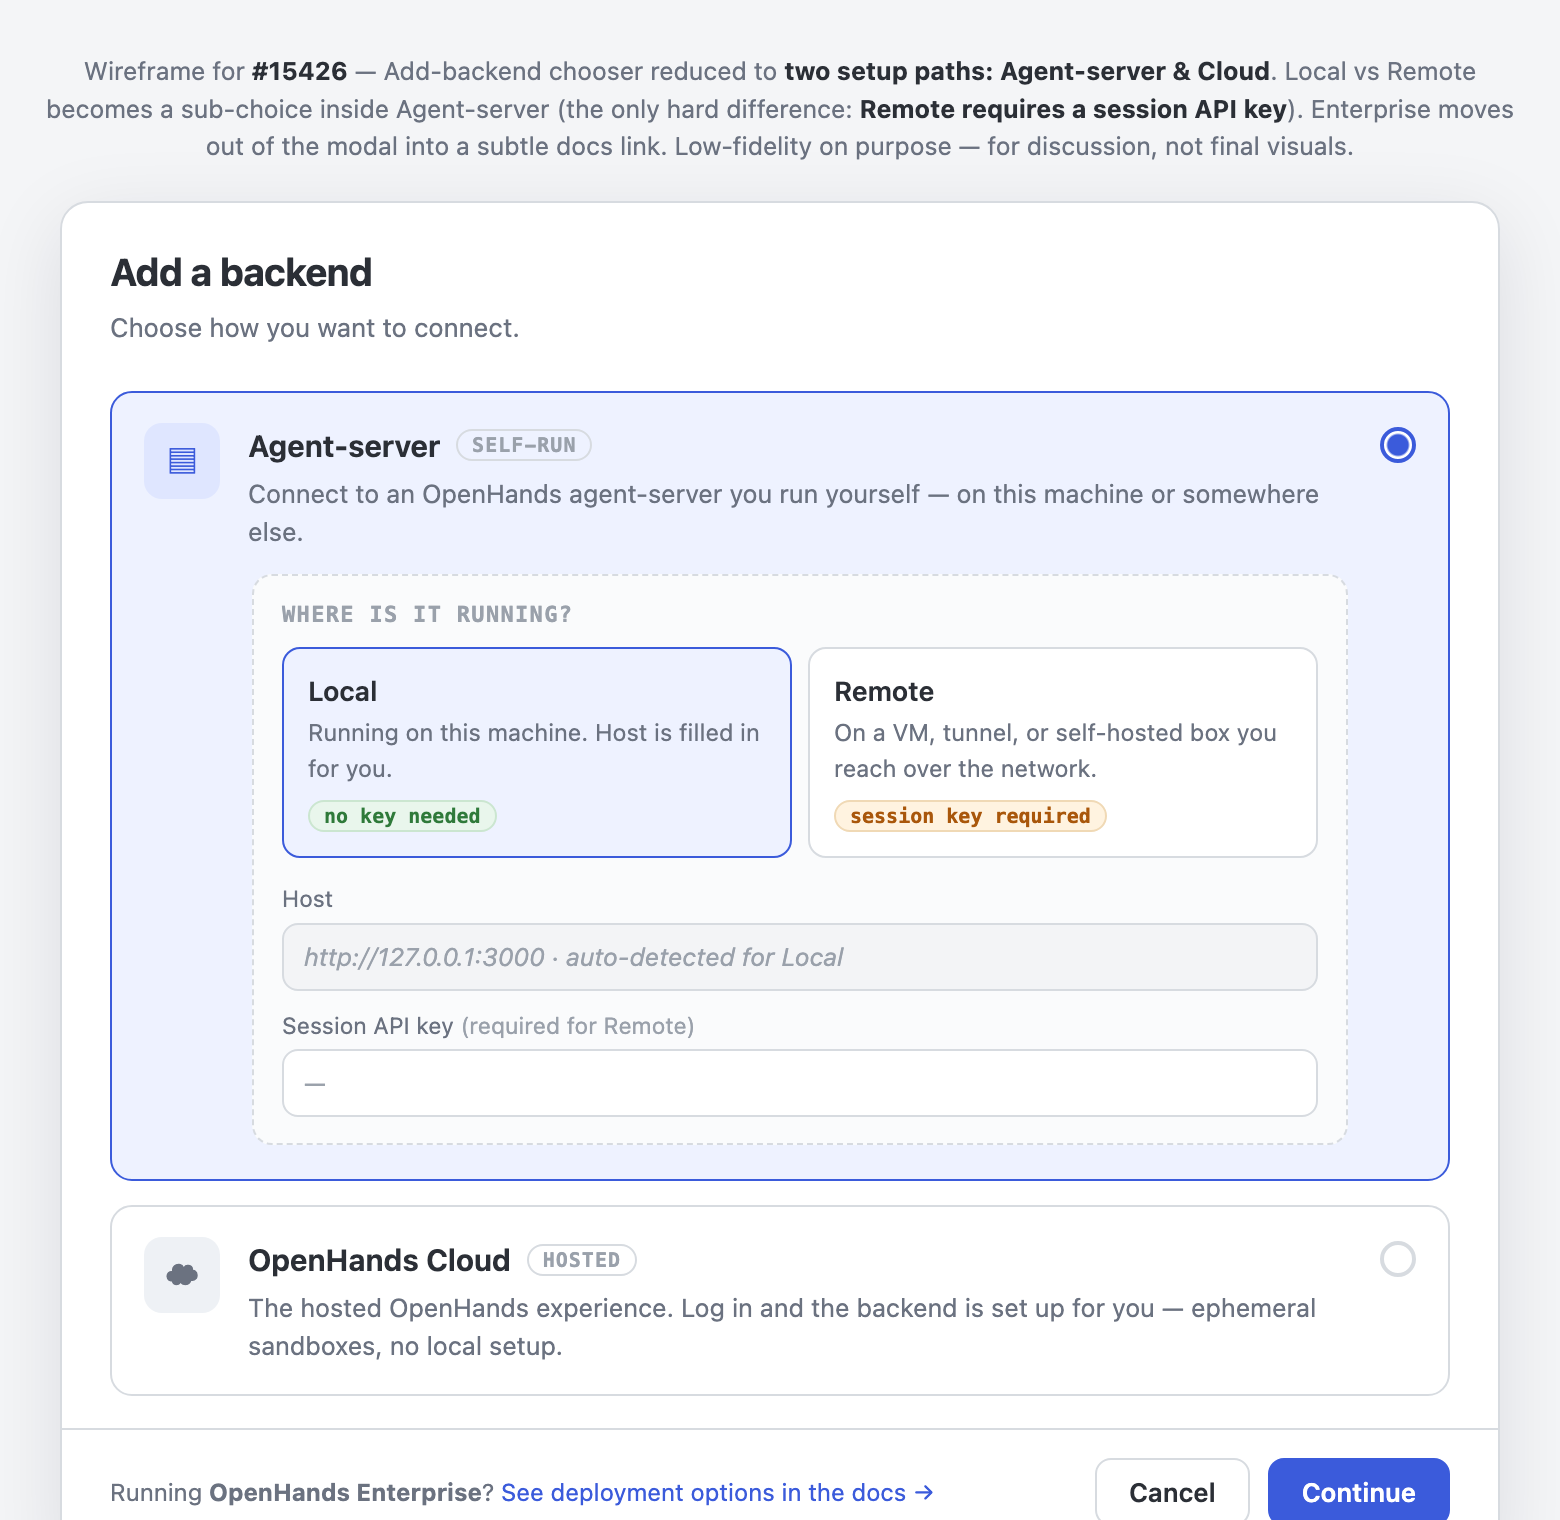
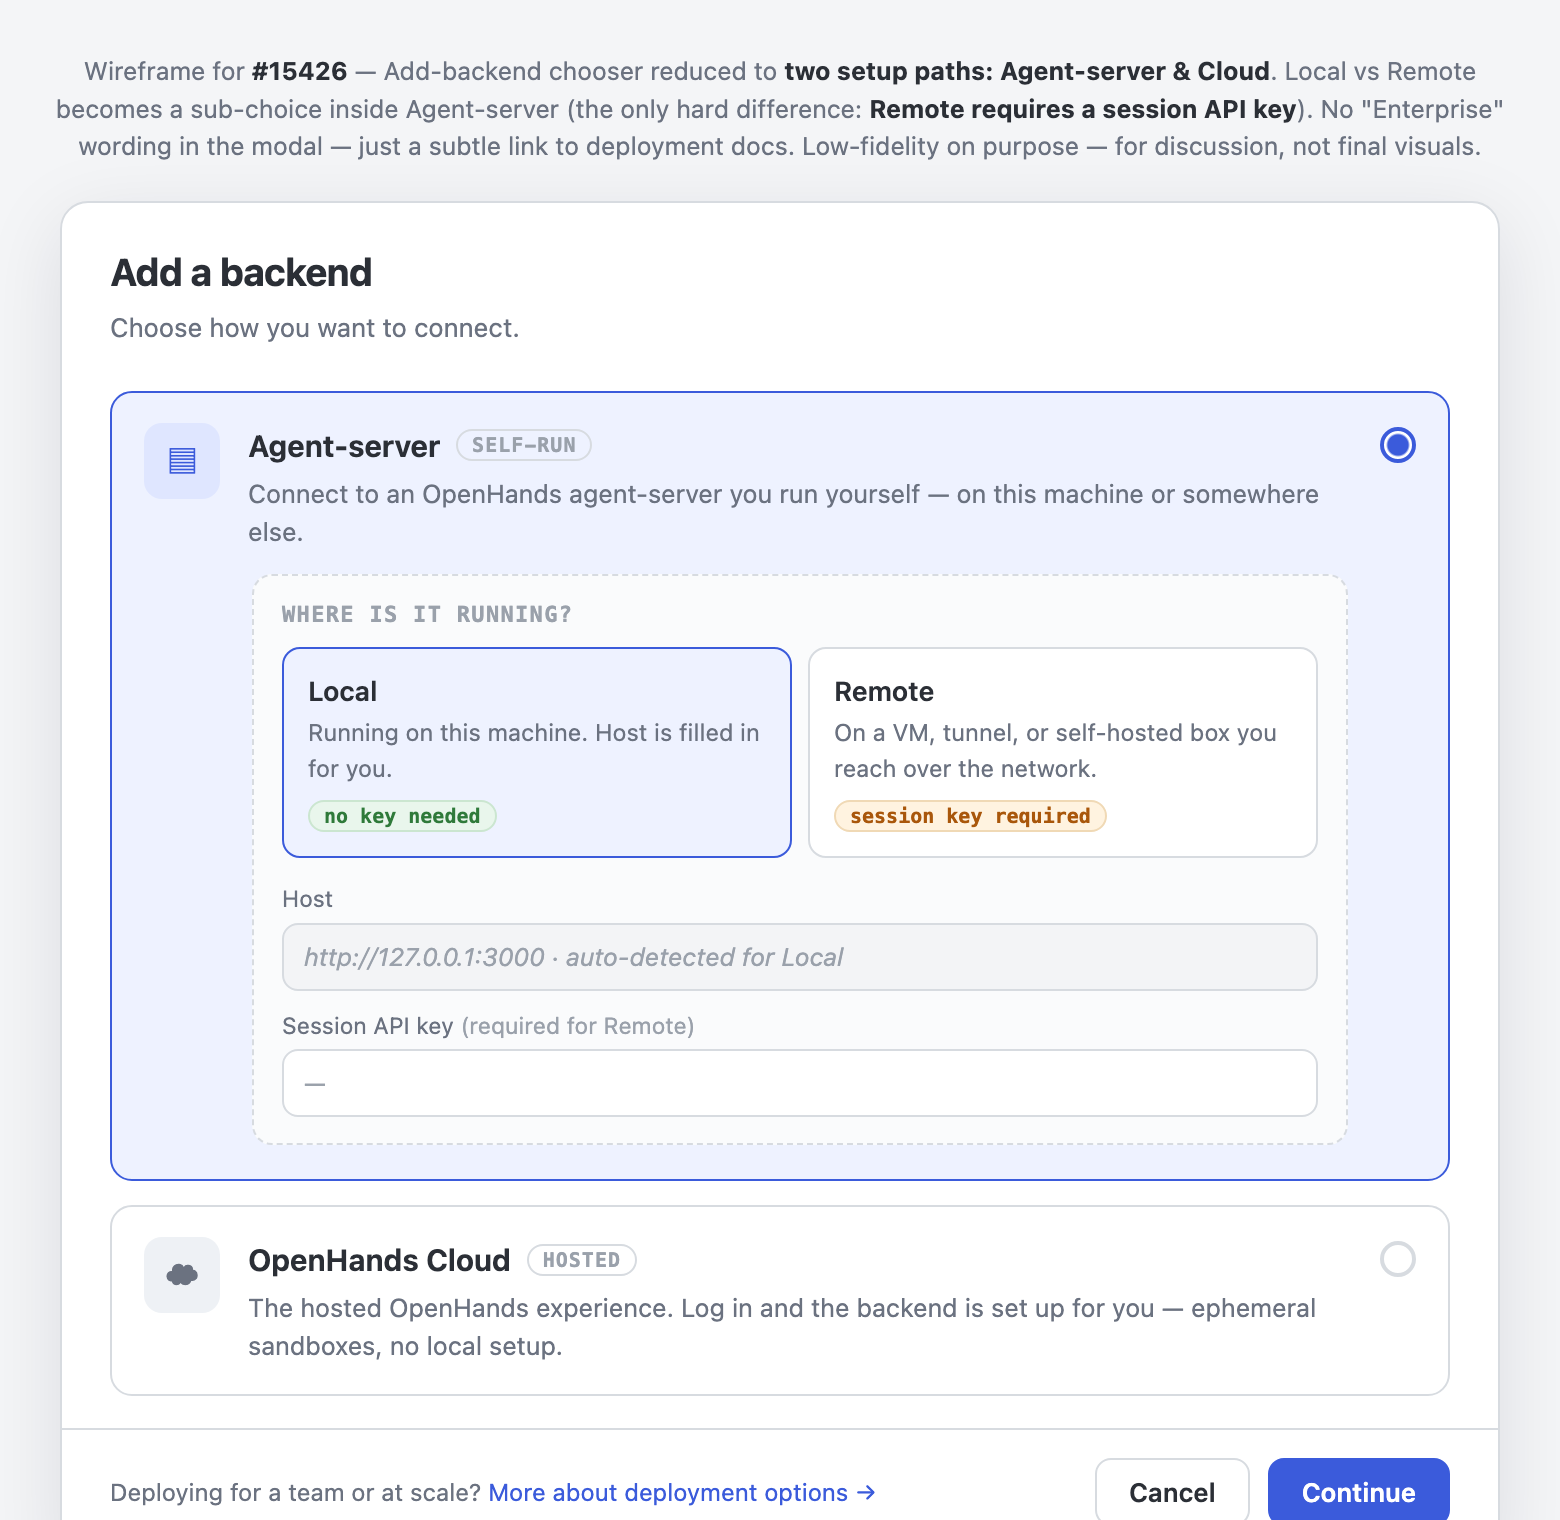
wire: drop 'Enterprise' wording -> neutral deployment-docs link (OpenHands#15426)

Changed region(s): [[0.0308, 0.0618, 0.9538, 0.1237], [0.0615, 0.9586, 0.5846, 0.9895]]

diff --git a/wire/backend-selector.html b/wire/backend-selector.html
@@ -67,7 +67,7 @@
 </style>
 </head>
 <body>
-  <p class="note">Wireframe for <b>#15426</b> — Add-backend chooser reduced to <b>two setup paths: Agent-server &amp; Cloud</b>. Local vs Remote becomes a sub-choice inside Agent-server (the only hard difference: <b>Remote requires a session API key</b>). Enterprise moves out of the modal into a subtle docs link. Low-fidelity on purpose — for discussion, not final visuals.</p>
+  <p class="note">Wireframe for <b>#15426</b> — Add-backend chooser reduced to <b>two setup paths: Agent-server &amp; Cloud</b>. Local vs Remote becomes a sub-choice inside Agent-server (the only hard difference: <b>Remote requires a session API key</b>). No "Enterprise" wording in the modal — just a subtle link to deployment docs. Low-fidelity on purpose — for discussion, not final visuals.</p>
 
   <div class="modal">
     <div class="m-head">
@@ -125,7 +125,7 @@
     </div>
 
     <div class="m-foot">
-      <div class="ent">Running <b>OpenHands Enterprise</b>? <a href="#">See deployment options in the docs →</a></div>
+      <div class="ent">Deploying for a team or at scale? <a href="#">More about deployment options →</a></div>
       <div class="btns">
         <div class="btn">Cancel</div>
         <div class="btn pri">Continue</div>
@@ -133,6 +133,6 @@
     </div>
   </div>
 
-  <p class="cap">Open questions this leaves for the thread: (1) is "Agent-server / Cloud" clearer than "Local / Remote / Cloud", or does hiding Local/Remote one level down lose the discoverability Devin wanted? (2) Enterprise as a footer docs link vs a lightweight third row.</p>
+  <p class="cap">Open questions this leaves for the thread: (1) is "Agent-server / Cloud" clearer than "Local / Remote / Cloud", or does hiding Local/Remote one level down lose the discoverability Devin wanted? (2) footer deployment-docs link vs a lightweight third row. Exact footer copy is a placeholder — e.g. "More about deployment options" or "Deployment docs".</p>
 </body>
 </html>
